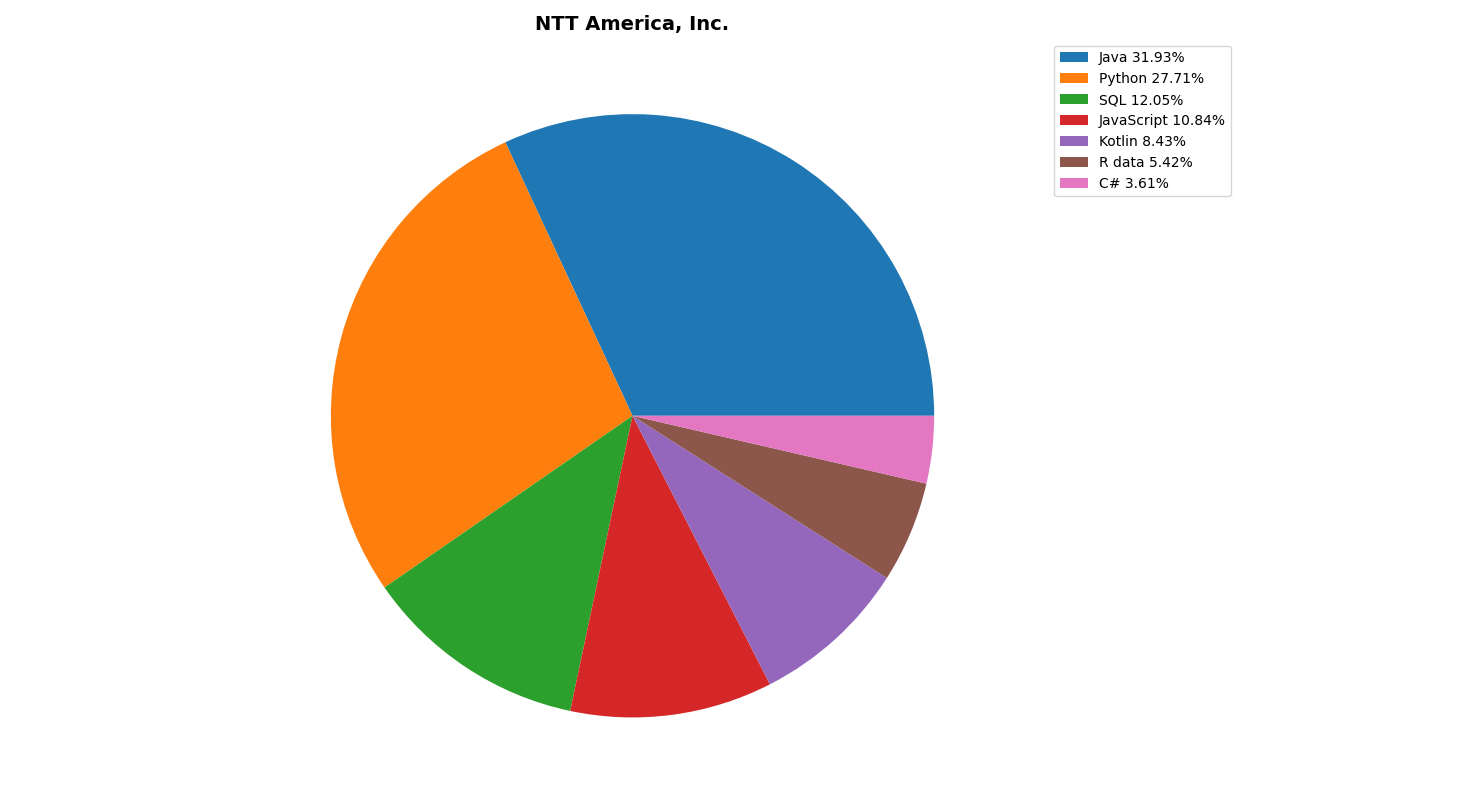
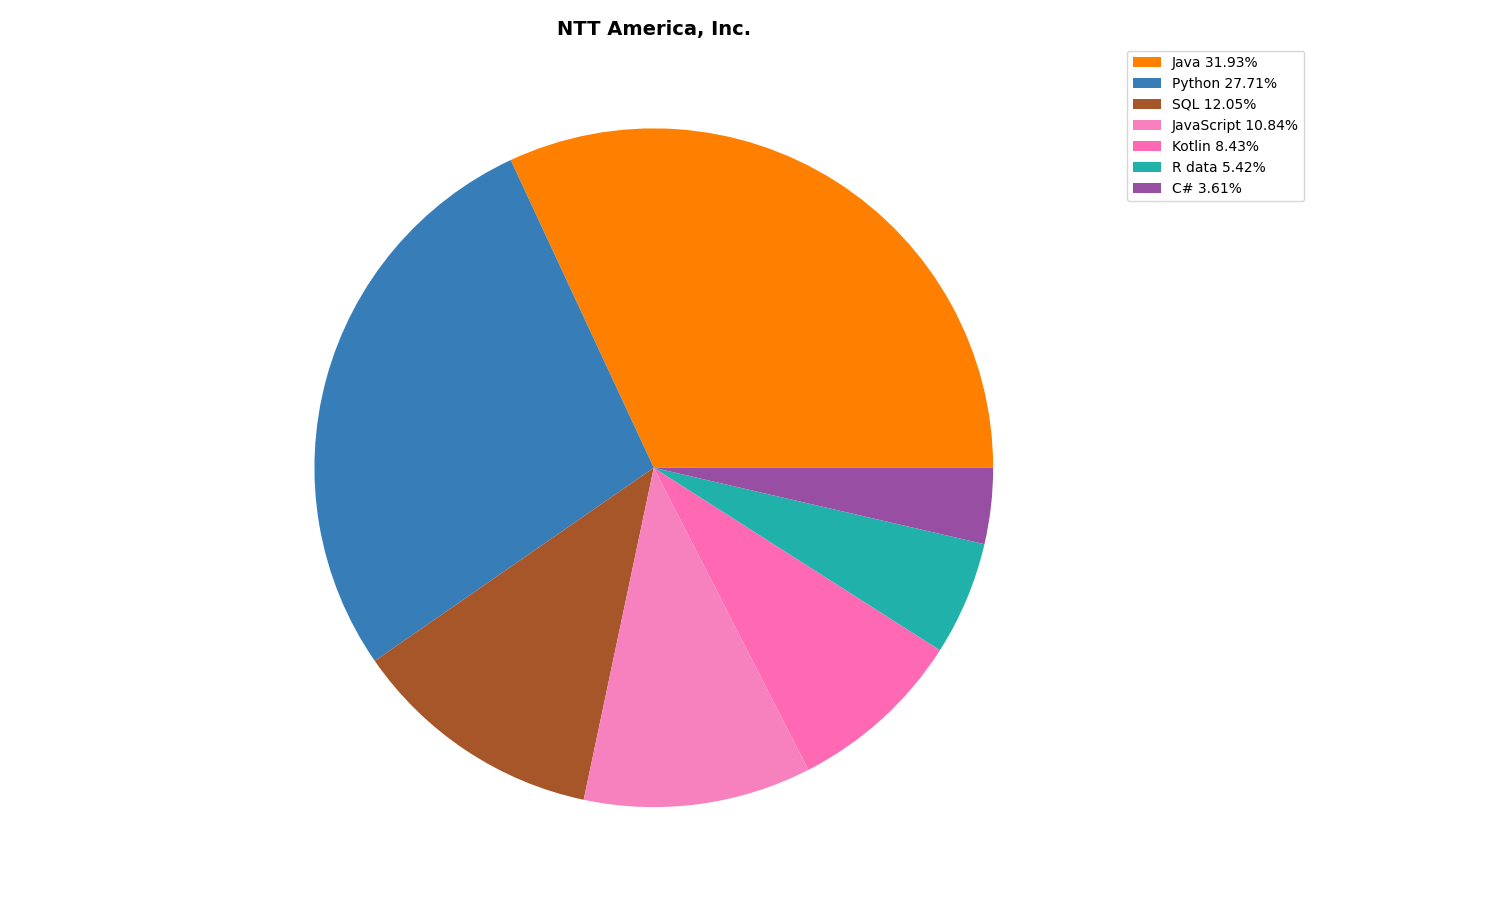
Normalizaciòn de los colores en las graficas

Changed region(s): [[0.1847, 0.1238, 0.6772, 0.8973], [0.7079, 0.0619, 0.8618, 0.2475], [0.3694, 0.0, 0.4925, 0.0619]]

diff --git a/analisis.py b/analisis.py
@@ -1,5 +1,35 @@
 import pandas as pd
 import matplotlib.pyplot as plt  
+import numpy as np
+
+# Mapa de colores para los lenguajes más comunes
+color_map = {
+    'Python': '#377eb8',    # Azul
+    'Java': '#ff7f00',      # Naranja
+    'JavaScript': '#f781bf',# Rosa
+    'C++': '#e41a1c',       # Rojo
+    'C#': '#984ea3',        # Violeta
+    'SQL': '#a65628',       # Marrón
+    'Go': '#00ddff',        # Cian
+    'Golang': '#00ddff',    # Cian (caso alternativo)
+    'MATLAB': '#ffff33',    # Amarillo
+    'Ruby': '#999999',      # Gris
+    'PHP': '#800080',       # Púrpura
+    'Rust': '#ff4500',      # Naranja oscuro
+    'Kotlin': '#ff69b4',    # Rosa intenso
+    'R data': '#20b2aa',    # Verde azulado
+    'Scratch': '#4682b4',   # Azul acero
+    'Fortran': '#b22222',   # Rojo ladrillo
+    'Visual Basic': '#daa520', # Dorado
+    'Perl': '#c0c0c0',      # Plateado
+    'Assembly language': '#8b0000', # Rojo oscuro
+    'C programming language': '#4daf4a',         # Verde
+    'Ada programming language': '#556b2f',  # Verde oliva
+}
+
+# Función para obtener un color (si el lenguaje no está en la lista, devuelve uno gris/neutro)
+def get_color(lang):
+    return color_map.get(lang, '#d9d9d9') # Gris claro para "Otros"
 
 # Abrimos los datos 
 adzuna_data = pd.read_csv("data/adzuna_lenguajes.csv")
@@ -96,11 +126,12 @@ for i in lista: # bucle para buscar en los datos de las 3 primeras empresas
     empresas_filtradas = empresas_filtradas["tecnologia"].value_counts().sort_values(ascending=False)
     empresas_filtradas = empresas_filtradas.reset_index()
     empresas_filtradas.columns = ['Lenguaje', 'Total']
+    my_colors = [get_color(lang) for lang in empresas_filtradas['Lenguaje']]
     print(f"{i}\n")
     print(f"{ubicacion}\n")
     print(f"{empresas_filtradas} \n")
     plt.figure(figsize=(10, 8))
-    empresas_filtradas.set_index("Lenguaje")["Total"].plot(kind = "pie", labels=None, textprops={'fontsize': 11, 'weight': 'bold'}) # graficamos
+    empresas_filtradas.set_index("Lenguaje")["Total"].plot(kind = "pie", labels=None, colors=my_colors, textprops={'fontsize': 11, 'weight': 'bold'}) # graficamos
     plt.title(i, fontsize=14, fontweight='bold')
     plt.ylabel('')
     total = empresas_filtradas['Total'].sum()
@@ -109,3 +140,4 @@ for i in lista: # bucle para buscar en los datos de las 3 primeras empresas
     plt.tight_layout()
     plt.show()
     empresas_filtradas = adzuna_data # reiniciamos
+